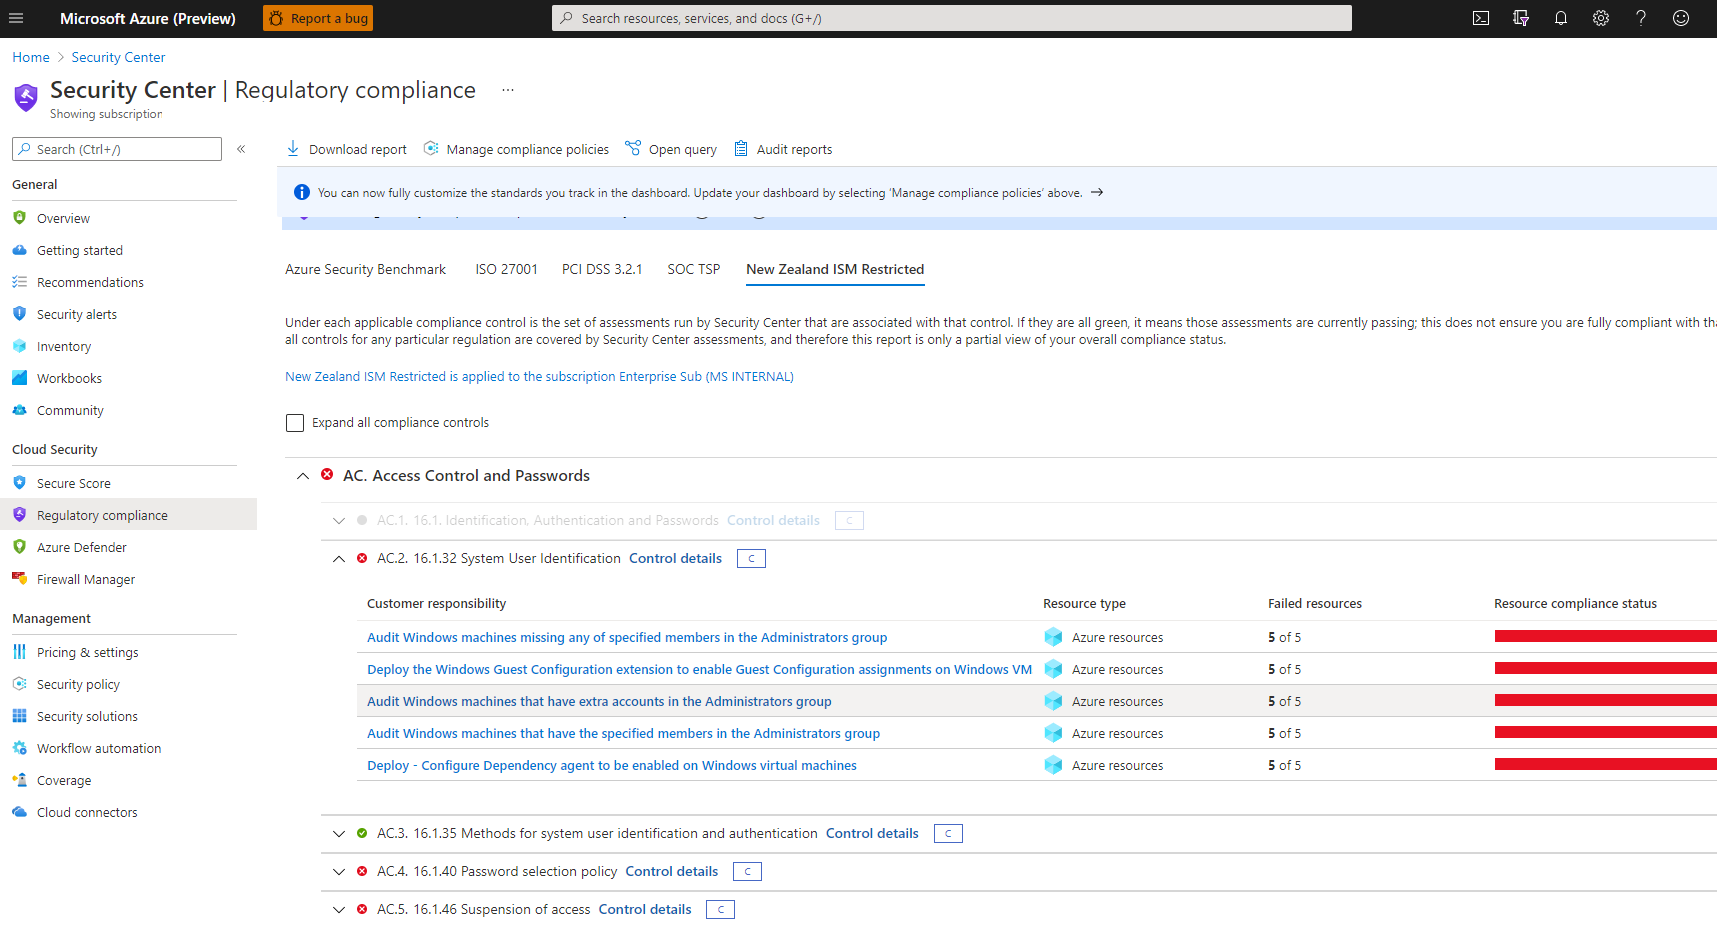
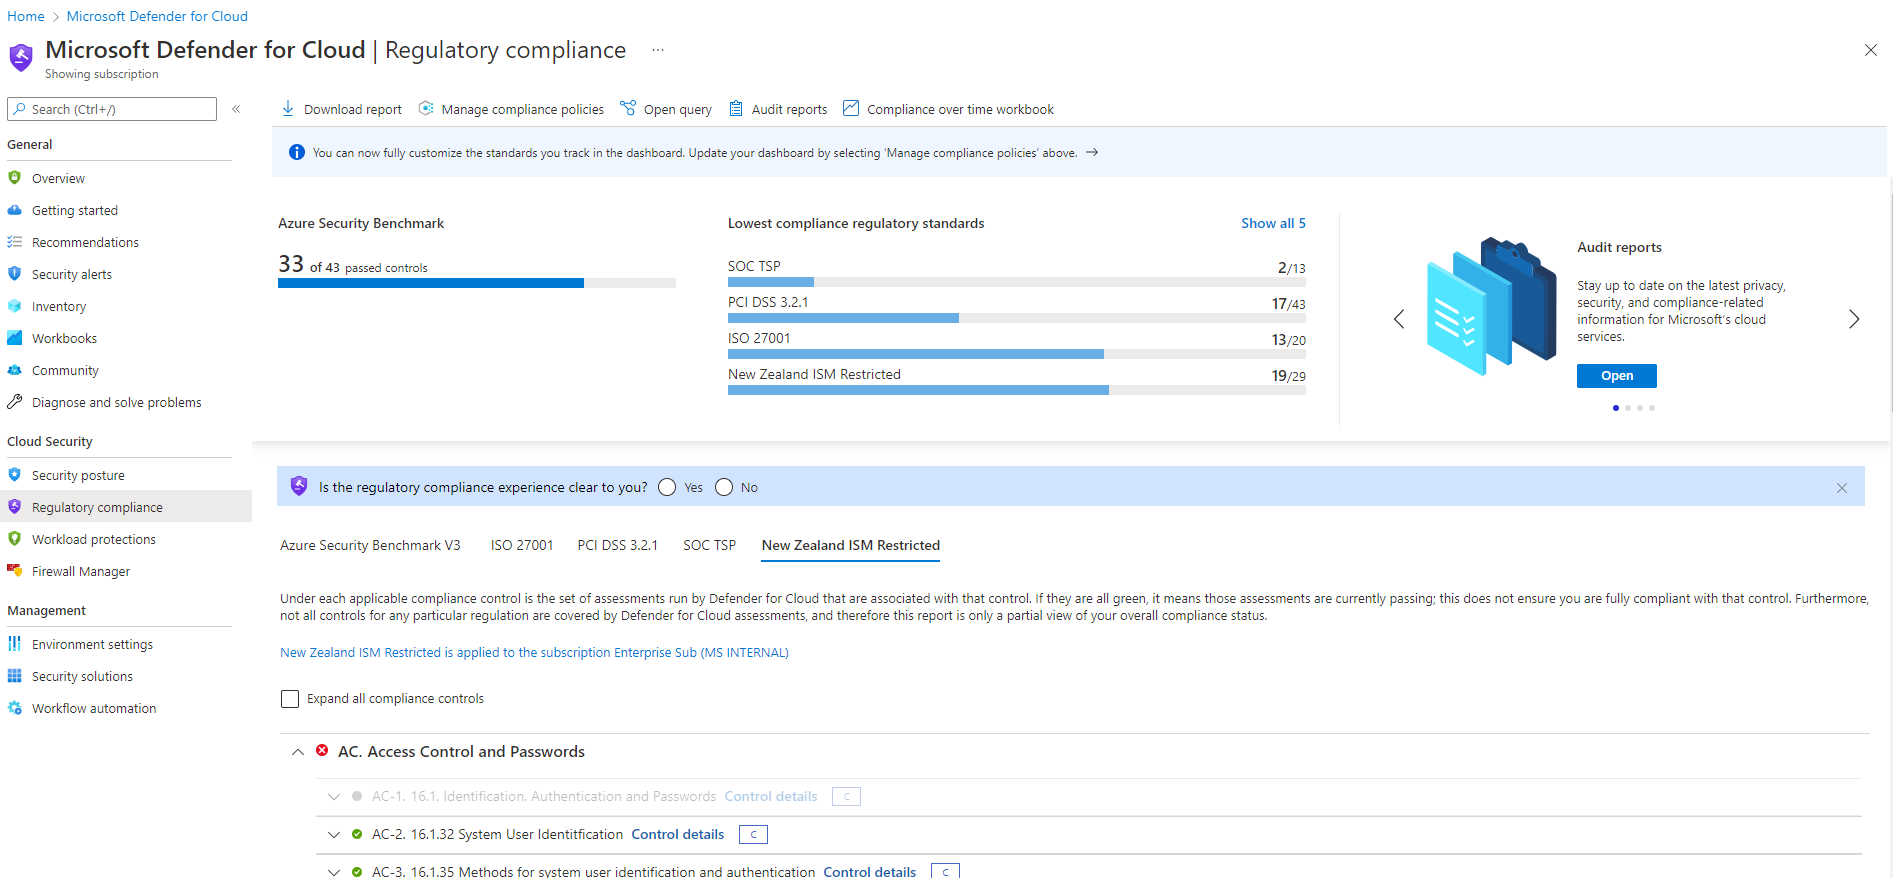
Update for v3.5

diff --git a/nzismdeployment.md b/nzismdeployment.md
@@ -1,10 +1,10 @@
-# New Zealand ISM Restricted Azure Blueprint
+# New Zealand ISM Restricted Azure Policy Initiative v3.5
 ![banner]
 
 <br/>
 
-## Update 17 June 2021
-The latest version of the NZ ISM Blueprint and Policy Initiative are now live in the Azure portal.  If you have deployed this using the Security Center Regulatory Compliance then this will be updated automatically.  If you have created your own custom policy from the sample, then you will need to update your policies from the new version published in the console.  As ever, all feedback is encouraged - please let me know!
+## Update 01 June 2022
+The latest update for the NZISM Policy Initiative is now live to bring it up to date with the version of the New Zealand Information Security Manual v3.5 which was published earlier this year.  This update introduces a series of changes and updates due to feedback from the community, changes to the underlying platform and changes to the services in Azure.  As ever, always evolving and updating!
 
 ## Overview
 One of the challenges that government agencies have in their transition from a traditional on premises style data center to a public cloud data center is ensuring that compliance to specific security and regulatory standards is maintained.  In an on premises world the patterns for compliance are well established, and have cadences that can be controlled through defined change and assessment process.  These processes also have timelines that can wait for capability or people to be available, and wrap around technology that has a long runway for change because the agency or their service provider controls the pace of change.  In the public cloud world the pace of change is a lot faster and does not wait for any single customer to be ready, so the process for assessing compliance, and ensuring services are built in a compliant way needs to move just as quickly.
@@ -13,7 +13,7 @@ In New Zealand, our government agency responsible for establishing the guideline
 
 > [Digital][NZGovDigital] is about more than new technologies and improving IT systems. It also means doing things differently using new mindsets, skills, data and technologies to overcome barriers and better meet New Zealand’s needs.
 
-Microsoft has worked with many customers to produce artifacts that enable them to work safely in public cloud environments.  These include documented processes for establishing good practice for [development][AppArch], [landing zone][LZ] design patterns, and frameworks for [Cloud Adoption][CAF].  We have also worked with government to help establish patterns to assess compliance for Azure environments, and the published those to be consumable via the Azure Portal.  Those objects are our [Azure Blueprints][AzureBP], [Azure Policies][AzurePolicy] and [Azure Policy Initiatives][AzurePolicyInit].
+Microsoft has worked with many customers and regulatory bodies to produce artifacts that enable them to work safely in public cloud environments.  These include documented processes for establishing good practice for [development][AppArch], [landing zone][LZ] design patterns, and frameworks for [Cloud Adoption][CAF].  We have also worked with government to help establish patterns to assess compliance for Azure environments, and the published those to be consumable via the Azure Portal.  Those objects are our [Azure Blueprints][AzureBP], [Azure Policies][AzurePolicy] and [Azure Policy Initiatives][AzurePolicyInit].
 
 We also published a set of tenets to improve the quality of a workload once it has been established in Azure called the [Microsoft Azure Well-Architected Framework][WAF].  The framework consists of five pillars of architecture excellence: Cost Optimization, Operational Excellence, Performance Efficiency, Reliability, and Security.
 
@@ -21,22 +21,16 @@ An area that both NZ Government and Microsoft recognised that could assist New Z
 
 The outcome of this is creating a known good baseline that every agency can adhere to, raising the base level of security across all New Zealand government.  As this is also policy as code, the process for updating and adjusting to a fast moving threat landscape becomes easier, ensuring that the risk can be reduced.  As this baseline is publicly available in the Azure gallery, New Zealand business can also adopt it, raising the bar across all of New Zealand.
 
-## What is an Azure Blueprint?
+## Whats changed?
 
-Just as a blueprint allows an engineer or an architect to sketch a project's design parameters, Azure Blueprints enables cloud architects and central information technology groups to define a repeatable set of Azure resources that implements and adheres to an organization's standards, patterns, and requirements. Azure Blueprints makes it possible for development teams to rapidly build and stand up new environments with trust they're building within organizational compliance with a set of built-in components, such as networking, to speed up development and delivery.
+This policy initiative was orginally developed in early 2021 and has been deployed in a large number of NZ tenants, both government and non-government.  This is a great sign that business and agencies are looking to the GCSB and Microsoft for guidance in security when operating in cloud environments.  The GCSB was also recognised with its partners for this work, and won the [iSANZ Best Security Project or Security Awareness Initiative award][isanz] for 2021.
 
-Azure Blueprints can be comprised of some or all of the following objects:
-* [Resource Groups][AzureRG]
-* [ARM Templates][ARMTemplate]
-* [Policy Assignments][AzurePolicy]
-* [Role Assignments][AzureRBAC]
+The underlying technology for managing the initiative has also moved forward.  The Blueprint that this Policy Initiative originally was deployed alongside is being deprecated as the Azure Blueprint service changes path.  Like all Azure services, this is due to the usage patterns of the people who consume Azure services, requests from the community and innovation from the Microsoft engineering team.  When we deployed the NZISM initiative in the past, the blueprint was not used as most companies manage their subscriptions and environments in different ways.  As this is not used, we dropped it from the NZISM scope as it seemed to add no benefit.  Also, as the Defender for Azure capability evolved, more focus was put on integrating with that console as it was the main dashboard that compliance staff interacted with the output for the initiative.
 
-This allows an organisation to ensure that all resources confirm to an agreed standard of configuration or ensure that new environments are created in a repeatable and automated fashion, reducing human error and ensuring compliance to a standard.  A good example of this would be an Azure Blueprint that contains all of the required components and configuration to allow resources in a subscription to connect to the core production network, RBAC rules to ensure only the right roles have access to specific components and Azure Policies to enforce specific security or configuration rules.  This means that as a new subscription is added to an agencies Azure environment, it is automatically configured to a known good standard.
+One of the challenges in the community was how to know which version of the NZ ISM you were being compliant with.  The version of the initiative and the NZISM are not linked, so while the NZISM is not at v3.5 as of June 2022, the Policy Initiative is on v9.0.  To remedy this, we changed the name to include the version number to make that more clear.  So the new release will be called New Zealand ISM Restricted v3.5.
 
-<img src="images/blueprint.png" alt="Blueprint" title="Blueprint" width="50%" />
-
-<br/>
-<br/>
+Another issue is change control - by default, many organisations simply deployed the NZ ISM Initiative directly from the gallery into their tenant. While this will still acheive the outcome of applying the initiative to the customer tenant, the issue is that it is the object that was published by Microsoft.  So when Microsoft update that initiative due to policy deprecation, response to a bug or change in policy feature, the initiative the customer has deployed will be automatically updated as well.  Most of the time this is not an issue, but it does raise the issue of change control, and good policy management in Azure.  From a change control perspective, the customer loses the ability to know exactly when change is occuring, so if an issue does arise it may take some time to track down the root cause.  And good policy management means that you deploy policy to test areas first to ensure that changes will not cause a problem, before deploying to the wider environment.
+To address this it is recommended that the initiative is copied, and then deployed as per the instructions in this document.  This ensures that a unique resource is created in the customer tenant, and updates can be deployed following the change control process established by the customer.
 
 ## What is a Policy Initiative?
 Azure Policy evaluates resources in Azure by comparing the properties of those resources to business rules. These business rules, described in JSON format, are known as policy definitions. To simplify management, several business rules can be grouped together to form a [policy initiative][AzurePolicyInit]. Once your business rules have been formed, the policy definition or initiative is assigned to any scope of resources that Azure supports, such as management groups, subscriptions, resource groups, or individual resources. The assignment applies to all resources within the Resource Manager scope of that assignment. Subscopes can be excluded, if necessary. For more information, see [Scope in Azure Policy][AzurePolicyScope].
@@ -52,54 +46,9 @@ If you are also training your engineers to understand DevOps workflows, managing
 
 All Azure Policy data and objects are encrypted at rest. For more information, see [Azure data encryption at rest][AzureDataRest].
 
-## How to deploy the NZ ISM Restricted blueprint and policy initiative
+## How to deploy the NZ ISM Restricted Policy Initiative
 
-First we need to create the resource in your tenant so we can apply it to management groups and\or subscriptions.
-
-### Create blueprint definition
-1. Select All services in the left pane. Search for and select Blueprints.
-2. From the Getting started page on the left, select the Create button under Create a blueprint.
-3. In the Other Samples field type New Zealand and click on the New Zealand ISM Restricted sample.
-4. In the Blueprint Name field type a name for your blueprint - this is the name you will use to identify it within your tenant (e.g. NZISM)
-5. Click the ellipsis button next to the Definition Location button and select a location for your blueprint to exist.  This is important in that it can only be applied to management groups and subscriptions down the tree from its location.  By default, click Tenant Root Group and click Select to ensure it can be applied at all levels.
-6. Click Next:Artifacts
-7. This screen shows the individual artifacts that comprise this blueprint.  At this point, you can add further artifacts in if desired.
-8. Select Save Draft when you've finished reviewing the blueprint sample.
-
-This step creates a copy of the NZISM blueprint definition in the selected management group or subscription. The saved blueprint definition is managed like any blueprint created from scratch.
-
-### Publish the NZISM blueprint
-1. Select the Blueprint definitions page on the left. 
-2. Click on the NZISM blueprint
-3. Click Publish blueprint
-4. Enter a version number such as 1.0 and click Publish
-
-### Assign the NZISM blueprint
-1. Select the Blueprint definitions page on the left of the Azure Blueprints main screen
-2. Click on the NZISM blueprint
-3. Click Assign Blueprint
-4. Select the subscriptions you want this blueprint to be assigned
-5. In the Assignment Name field type a unique name for this assignment
-6. In the Location field select Australia East
-7. Select the version you created
-8. Leave the Lock Assignment on Dont Lock (for more information on this setting see [Resource Lock Assignment][AzureResLock])
-
-At this point, scroll down and you will see each individual policy item that is contained in the blueprint, along with its setting.  Some of these settings are configurable as an Option, and some require configuration before you can publish the blueprint. These are the items you must configure before moving on:
-* List of users that must be included in Windows VM Administrators group
-* List of users that must be excluded from Windows VM Administrators group
-* Log Analytics workspace ID for VM agent reporting
-
-This is the list of items that are optional - there are 3 of each of the following settings and they pertain to Log analytics agent deployment and Guest Configuration agent in Virtual Machines and Virtual Machine Scale Sets.  See the [Built-in Policy Definitions][AzurePolicyBuiltin] page for more information.
-* Optional: List of custom VM images that have supported Windows OS to add to scope additional to the images in the gallery
-* Optional: List of custom VM images that have supported Linux OS to add to scope additional to the images in the gallery
-
-9. Click Assign
-
-This will now deploy the artifacts in the Azure Blueprint to the target subscription.  In this case the Policy Initiative for NZ ISM Restricted will be applied.
-
-### Deploy the Policy Initiative on its own
-
-In some cases, you may want to just deploy the Policy Initiative instead of the blueprint.  This could be because you do not need all of the contents of the blueprint, and just need to report on compliance against the policy.  If you want to deploy the initiative on its own to a specific location instead of the blueprint use these instructions.
+When deploying the Policy initiative, the key thing to rememeber is that you need to create a resource based on the gallery item, not use the gallery item directly.  This is to make sure that the object you deploy to your tenant is a unique object.  That way, when Microsoft updates the policy initiative, your copy is unaffected - you own the change and update process, and you can use your policy update and release process to check the new version wont have any impact on the resources in your tenant.  Of course, this means you need to *have* a change and release process for policy, and someone responsible for monitoring the updates to the initiative.  But this is part of good governance of a cloud environment as laid out in the [Cloud Adoption Framework][CAF-GOV]
 
 1. Select All services in the left pane. Search for and select Policy.
 2. Click on Definitions
@@ -107,17 +56,8 @@ In some cases, you may want to just deploy the Policy Initiative instead of the 
 4. Click the ellipsis at the end of the line and select Assign
 5. Set the scope by selecting the Subscription this policy will apply to - alternatively you can apply it to a Management group to ensure it applies to all subscriptions
 > Note: The Policy Enforcement switch here allows you to disable any Enforcement policies and only return compliance if required.  At the time of writing all explicit deny policies had been removed from this template as it is primarily designed to report on compliance, and not enforce, a specific security template.  This is also a good way of testing the impact of new policies.
-6. Click Parameters.  Some of these parameters are configurable as an Option, and some require configuration before you can publish the blueprint. These are the items you must configure before moving on:
-* List of users that must be included in Windows VM Administrators group
-* List of users that must be excluded from Windows VM Administrators group
-* List of resource types that should have diagnostic logs enabled
-* Log Analytics workspace ID for VM agent reporting
-
-This is the list of items that are optional - there are 3 of each of the following settings and they pertain to Log analytics agent deployment and Guest Configuration agent in Virtual Machines and Virtual Machine Scale Sets.  See the [Built-in Policy Definitions][AzurePolicyBuiltin] page for more information.
-* Optional: List of custom VM images that have supported Windows OS to add to scope additional to the images in the gallery
-* Optional: List of custom VM images that have supported Linux OS to add to scope additional to the images in the gallery
-
-7. Click Review and Create.  Notice on this last screen the specific settings that require input are listed here in the Parameters section along with your entries.  Its a good way to ensure you have configured the correct parameters.
+6. Click Parameters.  There should be no parameters to configure with v3.5 but if there are due to future changes, you will be prompted to put entries in for those parameters here. 
+7. Click Review and Create.  Notice on this last screen the specific settings that require input are listed here in the Parameters section along with your entries.  Its a good way to ensure you have configured the correct parameters if they are required.
 8. Click Create.
 
 ## How to measure compliance
@@ -149,7 +89,7 @@ This walks you through a series of screens to configure the category and expirat
 
 ## How to keep up to date
 
-As feedback is received from the community, and as new policy settings are developed and the NZ ISM evolves to address new threats, so will the sample template change.  To keep up to date, you can simply redeploy the new version of the blueprint or Policy Initiative in the same way that you have previously deployed it, and remove the old version.  It is recommended that you follow the Microsoft recommended practice for Policy deployment.
+As feedback is received from the community, and as new policy settings are developed and the NZ ISM evolves to address new threats, so will the sample template change.  To keep up to date, you can simply redeploy the new version of the Policy Initiative in the same way that you have previously deployed it, and remove the old version.  As discussed earlier, policy deployment and staying current with updates in Azure is a muscle that needs to be built as part of a good Cloud Ops team, so the NZ ISM is a good artefact to use to train that muscle.
 
 ![AzurePolicyWorkflow]
 
@@ -157,20 +97,20 @@ Using Azure DevOps to check in the code, version it and deploy it to Azure is an
 
 ## Security Center and Exporting a report
 
-The NZ ISM Policy Inititiative is now available as a built in compliance report in the Azure Security center.
+The NZ ISM Policy Inititiative is now available as a built in compliance report in the Microsoft Defender for Cloud dashboard.
 
-![Dashboard]
+<img src="images/securitydashboard.png" alt="Policy" title="Policy" width="50%" />
 
 You can view your compliance as a more detailed dashboard, and also export this as a PDF or CSV.
 
-[See here for more information on how this works][SecurityCenterRegComp].
+[See here for more information on how this works][DfCRegComp].
 
 ## Feedback
-An important aspect of this blueprint and the policy initiative is to establish a feedback loop between the government agencies, the policy creators and the technology partners.  Working together as a community will ensure that as our technology evolves, so does the governance and management strategy.  It also means that all participants can leverage the shared learnings from establishment through to consumption.
+An important aspect of this policy initiative is to establish a feedback loop between the government agencies, the policy creators and the technology partners.  Working together as a community will ensure that as our technology evolves, so does the governance and management strategy.  It also means that all participants can leverage the shared learnings from establishment through to consumption.
 
 We welcome feedback on things that can improve the artifact's we have published.  Microsoft will be working with the NZ Government to continue to update the Policy Initiative in future to ensure the Azure gallery items stay in step with the standards published by the NZ government.
 
-To that end, for all feedback or questions on the NZ ISM Restricted Azure Blueprint and the Policy Initiative, please feel free to contact me at bevan.sinclair@microsoft.com, or simply talk to your Microsoft account team who can assist.  For feedback on the NZ ISM Restricted standard itself please send all requests to nzism@gcsb.govt.nz.
+To that end, for all feedback or questions on the NZ ISM Restricted Policy Initiative, please feel free to contact me at bevan.sinclair@microsoft.com, or simply talk to your Microsoft account team who can assist.  For feedback on the NZ ISM Restricted standard itself please send all requests to nzism@gcsb.govt.nz.
 
 Any items that merit more discussion, or we identify as items that the community would benefit with more in depth understanding can be found in the other markdown document [NZ ISM Discussion][NZISMDiscussion]
 
@@ -180,12 +120,10 @@ This work has been and continues to be a team effort so thanks to the staff at t
 ## Reference Links
 * [New Zealand ISM][NZISM]
 * [New Zealand Strategy for a Digital Public Service][NZGovDigital]
-* [Azure Blueprints Documentation][AzureBP]
-* [Azure Blueprint Samples][AzureBPSamples]
-* [David White @ Theta - Article on implementing the NZISM Policy Initiative][DavidWhite]
+
 
 <!-- Local -->
-[Banner]: images/banner.png
+[Banner]: images/banner-w.png
 [Blueprint]: images/blueprint.png
 [Management]: images/management.png
 [Dashboard]: images/securitydashboard.png
@@ -214,6 +152,8 @@ This work has been and continues to be a team effort so thanks to the staff at t
 [AzurePolicyBuiltin]: https://docs.microsoft.com/en-us/azure/governance/policy/samples/built-in-policies
 [AzurePolEvaluate]: https://docs.microsoft.com/en-us/azure/governance/policy/concepts/evaluate-impact
 [AzurePolascode]: https://docs.microsoft.com/en-us/azure/governance/policy/concepts/policy-as-code
-[SecurityCenterRegComp]: https://docs.microsoft.com/en-us/azure/security-center/security-center-compliance-dashboard
+[DfCRegComp]: https://docs.microsoft.com/en-us/azure/defender-for-cloud/regulatory-compliance-dashboard
 [AzurePolicyWorkflow]: https://docs.microsoft.com/en-us/azure/governance/policy/media/policy-as-code/policy-as-code-workflow.png
 [NZISMDiscussion]: https://github.com/BevanSin/nzismdocs/blob/master/nzismdiscussion.md
+[CAF-GOV]: https://docs.microsoft.com/en-us/azure/cloud-adoption-framework/govern/guides/standard/security-baseline-improvement
+[isanz]: https://www.isanz.org.nz/#entries
